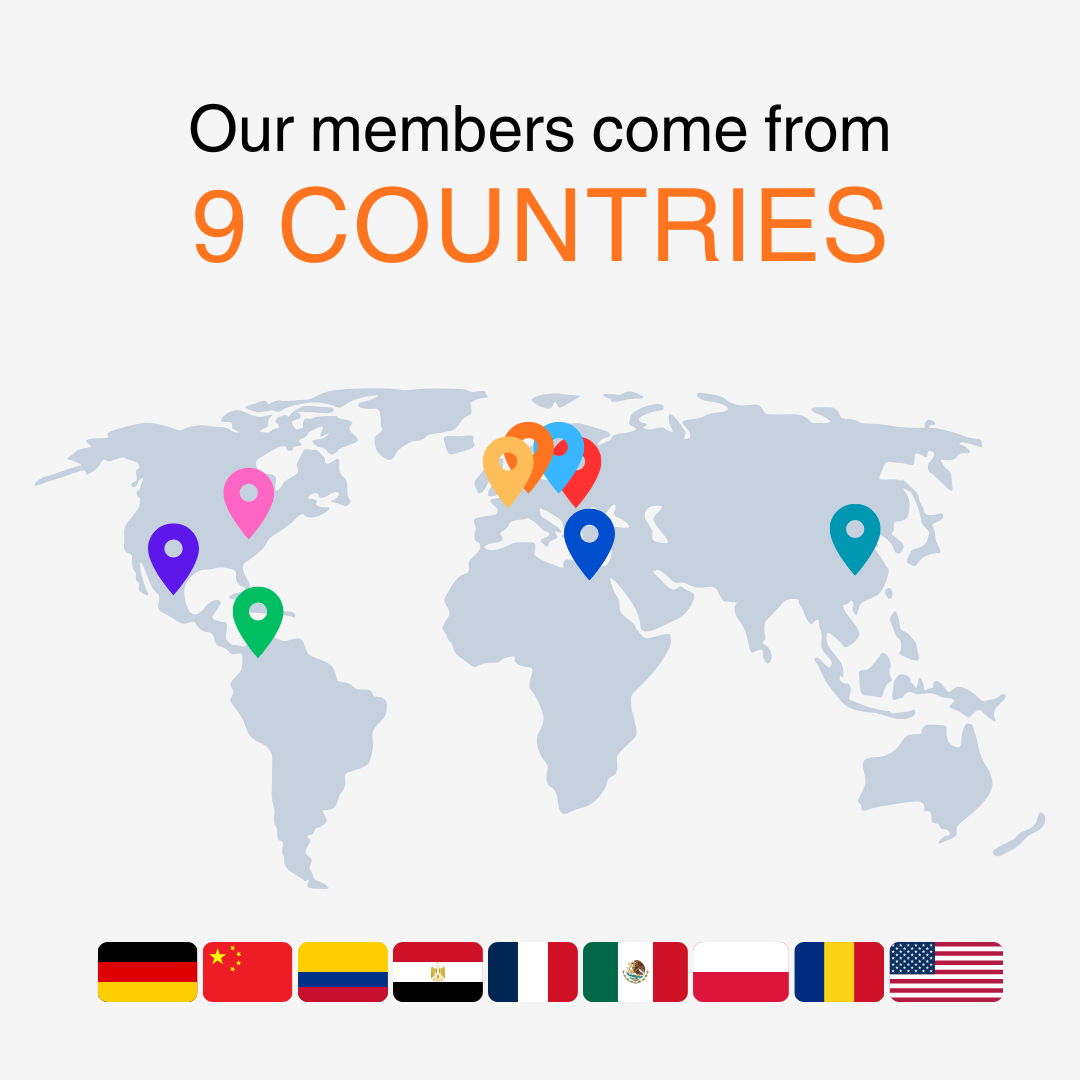
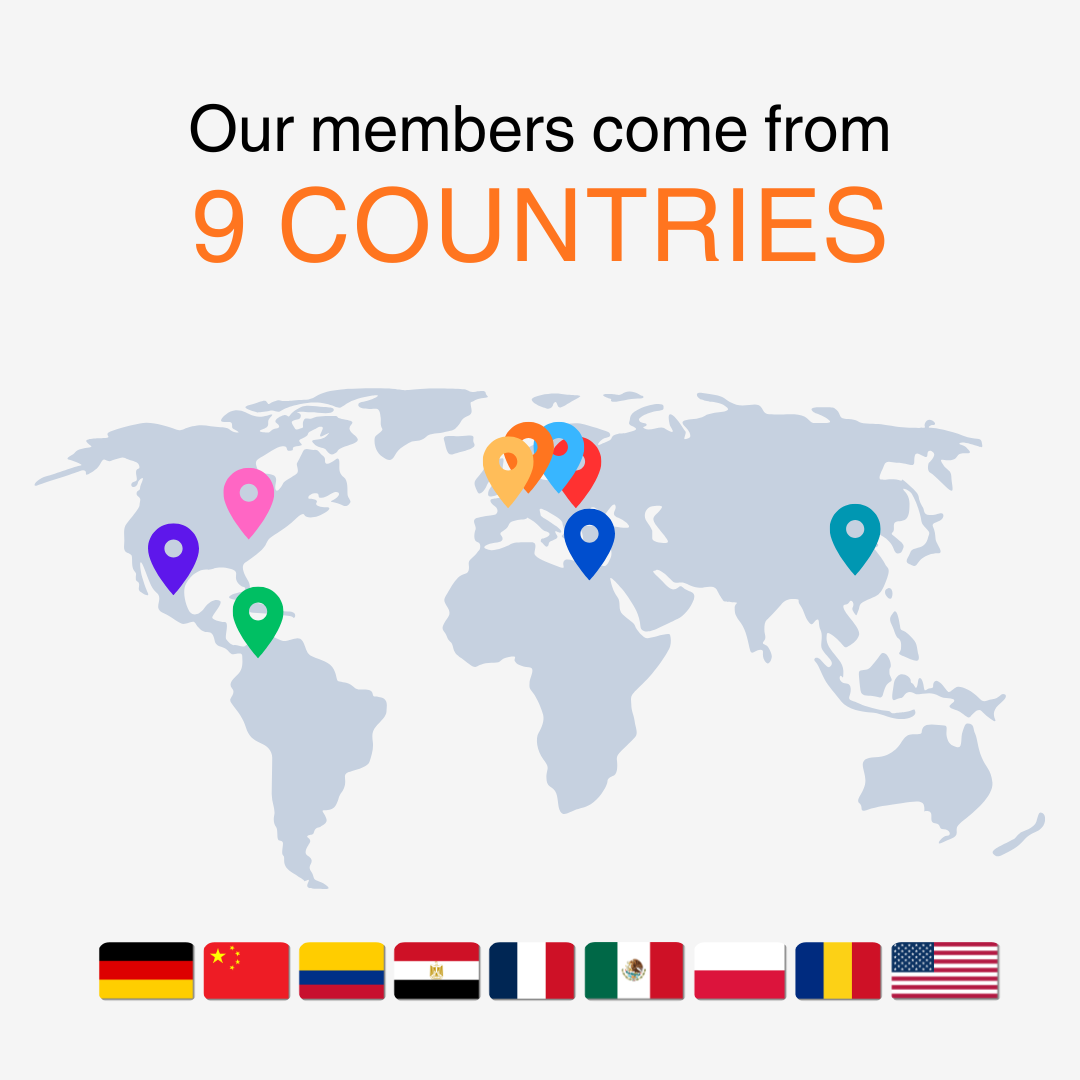
Added missing references and edited files as Lars requested

Changed region(s): [[0.2139, 0.8556, 0.9472, 0.9472], [0.0917, 0.8861, 0.1833, 0.9472]]

diff --git a/_site/research.html b/_site/research.html
@@ -296,7 +296,7 @@ div.csl-indent {
   </li>  
   <li class="nav-item">
     <a class="nav-link" href="./about.html"> 
-<span class="menu-text">About</span></a>
+<span class="menu-text">About us</span></a>
   </li>  
 </ul>
           </div> <!-- /navcollapse -->
@@ -348,15 +348,17 @@ div.csl-indent {
 </section>
 <section id="herpesviral-manipulation-of-the-host-transcriptional-machinery" class="level2">
 <h2 class="anchored" data-anchor-id="herpesviral-manipulation-of-the-host-transcriptional-machinery">Herpesviral manipulation of the host transcriptional machinery</h2>
-<p>Unlike other viruses such as SARS-CoV-2, herpesviruses uniquely exploit the host’s transcriptional machinery to express their large DNA genomes. This process of cellular gene expression is subject to rapid alterations induced by both viral and antiviral mechanisms during lytic infection. Standard approaches that quantify changes in total RNA and protein levels lack the necessary temporal resolution to elucidate the underlying molecular mechanisms. Our lab has pioneered the use of metabolic labelling of newly transcribed RNA using 4-thiouridine (4sU-tagging). This innovative approach allows us to analyze short-term changes in RNA synthesis, processing and decay with superior resolution<span class="citation" data-cites="dolken_high-resolution_2008 friedel_conserved_2009 windhager_ultrashort_2012 rutkowski_widespread_2015"><sup><a href="#ref-dolken_high-resolution_2008" role="doc-biblioref">1</a>–<a href="#ref-rutkowski_widespread_2015" role="doc-biblioref">4</a></sup></span>. We are using this method to study how herpesviruses manipulate the host transcriptional machinery during productive and latent infection. For instance, during lytic HSV-1 infection, we discovered that HSV-1 triggers widespread, host-specific disruption of transcription termination, leading to extensive transcriptional activity for tens of thousands of nucleotides and downstream genes. We have elucidated the underlying molecular mechanism and its functional consequences for productive infection<span class="citation" data-cites="lodha_decoding_2023"><sup><a href="#ref-lodha_decoding_2023" role="doc-biblioref">5</a></sup></span>. We are currently studying additional viral means of manipulating the cellular transcriptional machinery, the underlying molecular mechanisms, and the host defence mechanisms to detect and counteract this.</p>
+<p>Unlike other viruses such as SARS-CoV-2, herpesviruses uniquely exploit the host’s transcriptional machinery to express their large DNA genomes. This process of cellular gene expression is subject to rapid alterations induced by both viral and antiviral mechanisms during lytic infection. Standard approaches that quantify changes in total RNA and protein levels lack the necessary temporal resolution to elucidate the underlying molecular mechanisms. Our lab has pioneered the use of metabolic labelling of newly transcribed RNA using 4-thiouridine (4sU-tagging). This innovative approach allows us to analyze short-term changes in RNA synthesis, processing and decay with superior resolution<span class="citation" data-cites="dolken_high-resolution_2008 friedel_conserved_2009 windhager_ultrashort_2012 rutkowski_widespread_2015"><sup><a href="#ref-dolken_high-resolution_2008" role="doc-biblioref">1</a>–<a href="#ref-rutkowski_widespread_2015" role="doc-biblioref">4</a></sup></span>. Recent improvements involving nucleotide conversion sequencing technologies<span class="citation" data-cites="erhard_time-resolved_2022"><sup><a href="#ref-erhard_time-resolved_2022" role="doc-biblioref">5</a></sup></span> now enable time-resolved transcriptome analysis at single-cell resolution (scSLAM-seq<span class="citation" data-cites="erhard_scslam-seq_2019"><sup><a href="#ref-erhard_scslam-seq_2019" role="doc-biblioref">6</a></sup></span>).</p>
+<p>We are using these approaches to study how herpesviruses manipulate the host transcriptional machinery during productive and latent infection. For instance, during lytic HSV-1 infection, we discovered that HSV-1 triggers widespread, host-specific disruption of transcription termination (DoTT), leading to extensive transcriptional activity for tens of thousands of nucleotides and downstream genes<span class="citation" data-cites="rutkowski_widespread_2015"><sup><a href="#ref-rutkowski_widespread_2015" role="doc-biblioref">4</a></sup></span>. We elucidated the underlying molecular mechanism and its functional consequences for productive infection<span class="citation" data-cites="lodha_decoding_2023"><sup><a href="#ref-lodha_decoding_2023" role="doc-biblioref">7</a></sup></span>. Most recently, we could show within a consortium of international researchers that mammalian cells learned to recognize DoTT induced by HSV-1 and Influenza A virus. Specifically, DoTT results in the nuclear accumulation of long aberrant nuclear RNAs that form left-handed double-stranded RNAs, so called Z-RNAs, when spanning repetitive intergenic regions harboring endogenous retroviral elements. Host-derived Z-RNAs arising during lytic HSV-1 and IAV infection are recognized by Z-Nucleic Acid Binding Protein 1 (ZBP1), triggering cell death. Mammalian cells thus learned to exploit previous viral invasions of their large genomes to detect and efficiently combat new viral invasions<span class="citation" data-cites="yin_host_2025"><sup><a href="#ref-yin_host_2025" role="doc-biblioref">8</a></sup></span>.</p>
+<p>We are currently studying additional viral mechanisms for manipulating the cellular transcriptional machinery, the underlying molecular mechanisms, and the host defense mechanisms that detect and counteract them.</p>
 </section>
 <section id="functional-reannotation-of-herpesvirus-genomes" class="level2">
 <h2 class="anchored" data-anchor-id="functional-reannotation-of-herpesvirus-genomes">Functional reannotation of herpesvirus genomes</h2>
-<p>Applying systems biology methodologies like RNA-seq and ribosome profiling (Ribo-seq) revealed that herpesvirus gene expression is substantially more complex. Within their 165-230kb genomes, they encode hundreds of novel transcripts and open reading frames (ORFs). Based on a broad range of systems biology data, including transcription and translation start site profiling, ribosome profiling and quantitative proteomics, we re-annotate the genomes of HSV-1 (REF) as well as murine and human cytomegalovirus (MCMV/HCMV)<span class="citation" data-cites="erhard_improved_2018 lodha_decoding_2023"><sup><a href="#ref-lodha_decoding_2023" role="doc-biblioref">5</a>,<a href="#ref-erhard_improved_2018" role="doc-biblioref">6</a></sup></span>. We also developed a new nomenclature to incorporate the novel gene products into the existing nomenclature. A particularly interesting finding from ribosome profiling experiments is hundreds of novel small herpesvirus ORFs (sORFs). Most of these are expressed upstream of previously annotated larger ORFs that represent upstream open reading frames (uORFs). Cellular uORFs are prevalent in eukaryotic genomes and constitute an important yet poorly understood regulatory network governing gene expression at the translation level. We hypothesize that viral uORFs allow these viruses to adapt viral gene expression to cell type, stress and inflammation. Moreover, we are interested in the functional role of small viral RNAs during the different phases of the viral life cycle<span class="citation" data-cites="hennig_selective_2022"><sup><a href="#ref-hennig_selective_2022" role="doc-biblioref">7</a></sup></span>.</p>
+<p>Applying systems biology methodologies like RNA-seq and ribosome profiling (Ribo-seq) revealed that herpesvirus gene expression is substantially more complex. Within their 165-230kb genomes, they encode hundreds of novel transcripts and open reading frames (ORFs). Based on a broad range of systems biology data, including transcription and translation start site profiling, ribosome profiling, and quantitative proteomics, we re-annotate the genomes of HSV-1<span class="citation" data-cites="whisnant_integrative_2020"><sup><a href="#ref-whisnant_integrative_2020" role="doc-biblioref">9</a></sup></span> as well as murine and human cytomegalovirus (MCMV/HCMV)<span class="citation" data-cites="erhard_improved_2018 lodha_decoding_2023"><sup><a href="#ref-lodha_decoding_2023" role="doc-biblioref">7</a>,<a href="#ref-erhard_improved_2018" role="doc-biblioref">10</a></sup></span>. We also developed a new nomenclature to incorporate the novel gene products into the existing nomenclature. A particularly interesting finding from ribosome profiling experiments is the identification of hundreds of novel small herpesvirus ORFs (sORFs). Most of these are expressed upstream of previously annotated larger ORFs that represent upstream open reading frames (uORFs). Cellular uORFs are prevalent in eukaryotic genomes and constitute an important yet poorly understood regulatory network governing gene expression at the translation level. We hypothesize that viral uORFs allow these viruses to adapt viral gene expression to cell type, stress, and inflammation. Moreover, we are interested in the functional role of small viral RNAs during the different phases of the viral life cycle<span class="citation" data-cites="hennig_selective_2022"><sup><a href="#ref-hennig_selective_2022" role="doc-biblioref">11</a></sup></span> and their immunological role in virus control and immune evasion.</p>
 </section>
-<section id="transcriptional-regulation-at-single-cell-level" class="level2">
-<h2 class="anchored" data-anchor-id="transcriptional-regulation-at-single-cell-level">Transcriptional regulation at single-cell level</h2>
-<p>Single-cell RNA sequencing (scRNA-seq) has highlighted the important role of intercellular heterogeneity in phenotype variability in health and disease. Gene expression is a stochastic process, with intrinsic and extrinsic noise in transcription and translation contributing to intercellular heterogeneity in mRNA and protein levels. However, this inherent characteristic cannot be resolved using current scRNA-seq approaches. A further key limitation of all existing methods is that the RNA profile of each cell can only be analyzed once. We combined metabolic RNA labelling using 4-thiouridine with chemical nucleoside conversion and scRNA-seq to develop thiol-(SH)-linked nucleotide conversion sequencing (scSLAM-seq)<span class="citation" data-cites="erhard_scslam-seq_2019"><sup><a href="#ref-erhard_scslam-seq_2019" role="doc-biblioref">8</a></sup></span>. Our close collaborator Florian Erhard (<a href="https://erhard-lab.de/">Erhard Lab</a>) developed the computational approach GRAND-SLAM (Global Refined Analysis of Newly transcribed RNA and Decay rates using SLAM-seq) to quantify the new-to-total RNA ratio (NTR) for thousands of genes in tens of thousands of cells. We are now exploiting scSLAM-seq’s super-resolution to decipher virus-host interactions at single-cell level. The long-term goal is to decipher viral and cellular mechanisms with important regulatory roles during latency, reactivation and productive infection and develop novel means of intervention.</p>
+<section id="transcriptional-regulation-at-the-single-cell-level" class="level2">
+<h2 class="anchored" data-anchor-id="transcriptional-regulation-at-the-single-cell-level">Transcriptional regulation at the single-cell level</h2>
+<p>Single-cell RNA sequencing (scRNA-seq) has highlighted the important role of intercellular heterogeneity in phenotype variability in health and disease. Gene expression is a stochastic process, with intrinsic and extrinsic noise in transcription and translation contributing to intercellular heterogeneity in mRNA and protein levels. However, this inherent characteristic cannot be resolved using current scRNA-seq approaches. A further key limitation of all existing methods is that the RNA profile of each cell can only be analyzed once. We combined metabolic RNA labelling using 4-thiouridine with chemical nucleoside conversion and scRNA-seq to develop thiol-(SH)-linked nucleotide conversion sequencing (scSLAM-seq)<span class="citation" data-cites="erhard_scslam-seq_2019"><sup><a href="#ref-erhard_scslam-seq_2019" role="doc-biblioref">6</a></sup></span>. Our close collaborator Florian Erhard (<a href="https://erhard-lab.de/">Erhard Lab</a>) has developed the computational approach GRAND-SLAM (Global Refined Analysis of Newly transcribed RNA and Decay rates using SLAM-seq)<span class="citation" data-cites="jurges_dissecting_2018"><sup><a href="#ref-jurges_dissecting_2018" role="doc-biblioref">12</a></sup></span> and the computational R-suite GRAND-R<span class="citation" data-cites="rummel_grandr_2023"><sup><a href="#ref-rummel_grandr_2023" role="doc-biblioref">13</a></sup></span> to quantify the new-to-total RNA ratio (NTR) for thousands of genes in tens of thousands of cells. We are now exploiting scSLAM-seq’s super resolution to decipher virus-host interactions at the single-cell level. Our goal is to reveal novel viral and cellular mechanisms with important regulatory roles during latency, reactivation, and productive infection and develop novel means of intervention.</p>
 </section>
 </div>
 
@@ -376,17 +378,32 @@ div.csl-indent {
 <div id="ref-rutkowski_widespread_2015" class="csl-entry" role="listitem">
 <div class="csl-left-margin">4. </div><div class="csl-right-inline">Rutkowski, A. J. <em>et al.</em> <a href="https://doi.org/10.1038/ncomms8126">Widespread disruption of host transcription termination in <span>HSV</span>-1 infection</a>. <em>Nature Communications</em> <strong>6</strong>, 7126 (2015).</div>
 </div>
-<div id="ref-lodha_decoding_2023" class="csl-entry" role="listitem">
-<div class="csl-left-margin">5. </div><div class="csl-right-inline">Lodha, M. <em>et al.</em> <a href="https://doi.org/10.1371/journal.ppat.1010992">Decoding murine cytomegalovirus</a>. <em>PLOS Pathogens</em> <strong>19</strong>, e1010992 (2023).</div>
-</div>
-<div id="ref-erhard_improved_2018" class="csl-entry" role="listitem">
-<div class="csl-left-margin">6. </div><div class="csl-right-inline">Erhard, F. <em>et al.</em> <a href="https://doi.org/10.1038/nmeth.4631">Improved <span>Ribo</span>-seq enables identification of cryptic translation events</a>. <em>Nature Methods</em> <strong>15</strong>, 363–366 (2018).</div>
-</div>
-<div id="ref-hennig_selective_2022" class="csl-entry" role="listitem">
-<div class="csl-left-margin">7. </div><div class="csl-right-inline">Hennig, T. <em>et al.</em> <a href="https://doi.org/10.1038/s41586-022-04667-4">Selective inhibition of <span class="nocase">miRNA</span> processing by a herpesvirus-encoded <span class="nocase">miRNA</span></a>. <em>Nature</em> <strong>605</strong>, 539–544 (2022).</div>
+<div id="ref-erhard_time-resolved_2022" class="csl-entry" role="listitem">
+<div class="csl-left-margin">5. </div><div class="csl-right-inline">Erhard, F. <em>et al.</em> <a href="https://doi.org/10.1038/s43586-[phone redacted]-z">Time-resolved single-cell <span>RNA</span>-seq using metabolic <span>RNA</span> labelling</a>. <em>Nature Reviews Methods Primers</em> <strong>2</strong>, 77 (2022).</div>
 </div>
 <div id="ref-erhard_scslam-seq_2019" class="csl-entry" role="listitem">
-<div class="csl-left-margin">8. </div><div class="csl-right-inline">Erhard, F. <em>et al.</em> <a href="https://doi.org/10.1038/s41586-019-1369-y"><span class="nocase">scSLAM</span>-seq reveals core features of transcription dynamics in single cells</a>. <em>Nature</em> <strong>571</strong>, 419–423 (2019).</div>
+<div class="csl-left-margin">6. </div><div class="csl-right-inline">Erhard, F. <em>et al.</em> <a href="https://doi.org/10.1038/s41586-019-1369-y"><span class="nocase">scSLAM</span>-seq reveals core features of transcription dynamics in single cells</a>. <em>Nature</em> <strong>571</strong>, 419–423 (2019).</div>
+</div>
+<div id="ref-lodha_decoding_2023" class="csl-entry" role="listitem">
+<div class="csl-left-margin">7. </div><div class="csl-right-inline">Lodha, M. <em>et al.</em> <a href="https://doi.org/10.1371/journal.ppat.1010992">Decoding murine cytomegalovirus</a>. <em>PLOS Pathogens</em> <strong>19</strong>, e1010992 (2023).</div>
+</div>
+<div id="ref-yin_host_2025" class="csl-entry" role="listitem">
+<div class="csl-left-margin">8. </div><div class="csl-right-inline">Yin, C. <em>et al.</em> <a href="https://doi.org/10.1038/s41586-[phone redacted]">Host cell <span>Z</span>-<span>RNAs</span> activate <span>ZBP1</span> during virus infections</a>. <em>Nature</em> <strong>648</strong>, 707–716 (2025).</div>
+</div>
+<div id="ref-whisnant_integrative_2020" class="csl-entry" role="listitem">
+<div class="csl-left-margin">9. </div><div class="csl-right-inline">Whisnant, A. W. <em>et al.</em> <a href="https://doi.org/10.1038/s41467-020-15992-5">Integrative functional genomics decodes herpes simplex virus 1</a>. <em>Nature Communications</em> <strong>11</strong>, 2038 (2020).</div>
+</div>
+<div id="ref-erhard_improved_2018" class="csl-entry" role="listitem">
+<div class="csl-left-margin">10. </div><div class="csl-right-inline">Erhard, F. <em>et al.</em> <a href="https://doi.org/10.1038/nmeth.4631">Improved <span>Ribo</span>-seq enables identification of cryptic translation events</a>. <em>Nature Methods</em> <strong>15</strong>, 363–366 (2018).</div>
+</div>
+<div id="ref-hennig_selective_2022" class="csl-entry" role="listitem">
+<div class="csl-left-margin">11. </div><div class="csl-right-inline">Hennig, T. <em>et al.</em> <a href="https://doi.org/10.1038/s41586-022-04667-4">Selective inhibition of <span class="nocase">miRNA</span> processing by a herpesvirus-encoded <span class="nocase">miRNA</span></a>. <em>Nature</em> <strong>605</strong>, 539–544 (2022).</div>
+</div>
+<div id="ref-jurges_dissecting_2018" class="csl-entry" role="listitem">
+<div class="csl-left-margin">12. </div><div class="csl-right-inline">Jürges, C., Dölken, L. &amp; Erhard, F. <a href="https://doi.org/10.1093/bioinformatics/bty256">Dissecting newly transcribed and old <span>RNA</span> using <span>GRAND</span>-<span>SLAM</span></a>. <em>Bioinformatics</em> <strong>34</strong>, i218–i226 (2018).</div>
+</div>
+<div id="ref-rummel_grandr_2023" class="csl-entry" role="listitem">
+<div class="csl-left-margin">13. </div><div class="csl-right-inline">Rummel, T., Sakellaridi, L. &amp; Erhard, F. <a href="https://doi.org/10.1038/s41467-023-39163-4"><span class="nocase">grandR</span>: A comprehensive package for nucleotide conversion <span>RNA</span>-seq data analysis</a>. <em>Nature Communications</em> <strong>14</strong>, 3559 (2023).</div>
 </div>
 </div></section></div></main> <!-- /main -->
 <script id="quarto-html-after-body" type="application/javascript">

diff --git a/_site/publications.html b/_site/publications.html
@@ -277,7 +277,7 @@ ul.task-list li input[type="checkbox"] {
   </li>  
   <li class="nav-item">
     <a class="nav-link" href="./about.html"> 
-<span class="menu-text">About</span></a>
+<span class="menu-text">About us</span></a>
   </li>  
 </ul>
           </div> <!-- /navcollapse -->
@@ -1203,6 +1203,17 @@ Emanuel Wyler, Jennifer Menegatti, Vedran Franke, Christine Kocks, Anastasiya Bo
 <span class="pub-venue"><em>Genome Biology</em>. 2017</span>
 </div>
 </div>
+<div class="pub-item">
+<div class="pub-title-row">
+<a class="pub-title" href="https://doi.org/10.1007/978-1-4939-6518-2_10" target="_blank" rel="noopener">High-Resolution Gene Expression Profiling of RNA Synthesis, Processing, and Decay by Metabolic Labeling of Newly Transcribed RNA Using 4-Thiouridine</a>
+</div>
+<div class="pub-authors">
+Andrzej J. Rutkowski, <span class="lab-author">Lars Dölken</span>
+</div>
+<div class="pub-meta">
+<span class="pub-venue"><em>Eukaryotic Transcriptional and Post-Transcriptional Gene Expression Regulation</em>. 2017</span>
+</div>
+</div>
 </div>
 </section>
 <section id="section-9" class="level2">
@@ -1430,6 +1441,17 @@ Jubao Duan, Jianxin Shi, Xijin Ge, <span class="lab-author">Lars Dölken</span>,
 </div>
 <div class="pub-meta">
 <span class="pub-venue"><em>Scientific Reports</em>. 2013</span>
+</div>
+</div>
+<div class="pub-item">
+<div class="pub-title-row">
+<a class="pub-title" href="https://doi.org/10.1007/978-1-62703-601-6_6" target="_blank" rel="noopener">High Resolution Gene Expression Profiling of RNA Synthesis, Processing, and Decay by Metabolic Labeling of Newly Transcribed RNA Using 4-Thiouridine</a>
+</div>
+<div class="pub-authors">
+<span class="lab-author">Lars Dölken</span>
+</div>
+<div class="pub-meta">
+<span class="pub-venue"><em>Virus-Host Interactions: Methods and Protocols</em>. 2013</span>
 </div>
 </div>
 </div>

diff --git a/_site/about.html b/_site/about.html
@@ -7,7 +7,7 @@
 <meta name="viewport" content="width=device-width, initial-scale=1.0, user-scalable=yes">
 
 
-<title>About</title>
+<title>About us</title>
 <style>
 code{white-space: pre-wrap;}
 span.smallcaps{font-variant: small-caps;}
@@ -276,7 +276,7 @@ ul.task-list li input[type="checkbox"] {
   </li>  
   <li class="nav-item">
     <a class="nav-link active" href="./about.html" aria-current="page"> 
-<span class="menu-text">About</span></a>
+<span class="menu-text">About us</span></a>
   </li>  
 </ul>
           </div> <!-- /navcollapse -->
@@ -313,7 +313,7 @@ ul.task-list li input[type="checkbox"] {
 
 <header id="title-block-header" class="quarto-title-block default">
 <div class="quarto-title">
-<h1 class="title">About</h1>
+<h1 class="title">About us</h1>
 </div>
 
 
@@ -330,7 +330,7 @@ ul.task-list li input[type="checkbox"] {
 </header>
 
 
-<p>We are located at the <a href="https://www.mhh.de/en/">Hannover Medical School (MHH)</a> at the <a href="https://www.mhh.de/en/mhh-institutes/virology">Institute of Virology</a>, Dölken Group <a href="https://www.mhh.de/virologie/forschung/doelken-lab">(AG Dölken)</a>.</p>
+<p>We are located in building J6 of <a href="https://www.mhh.de/en/">Hannover Medical School (MHH)</a> at the <a href="https://www.mhh.de/en/mhh-institutes/virology">Institute of Virology</a>, Dölken Group <a href="https://www.mhh.de/virologie/forschung/doelken-lab">(AG Dölken)</a>.</p>
 <section id="join-us" class="level2">
 <h2 class="anchored" data-anchor-id="join-us">Join us</h2>
 <p>If you are interested in joining the group for a Master’s thesis, MD project, PhD position, or postdoctoral research, feel free to get in touch by email. Please include a short description of your background and your research interests.</p>
@@ -356,7 +356,7 @@ ul.task-list li input[type="checkbox"] {
 </div><div class="column" style="width:45%;">
 <section id="director" class="level2">
 <h2 class="anchored" data-anchor-id="director">Director</h2>
-<p>Prof.&nbsp;Dr.&nbsp;med. Lars Dölken <br> Director Institute of Virology <br> <script type="text/javascript">
+<p>Prof.&nbsp;Dr.&nbsp;med. Lars Dölken <br> Director of the Institute of Virology <br> <script type="text/javascript">
 <!--
 h='&#x6d;&#104;&#x2d;&#104;&#x61;&#110;&#110;&#x6f;&#118;&#x65;&#114;&#46;&#100;&#x65;&#x3f;&#x73;&#x75;&#98;&#106;&#x65;&#x63;&#116;&#x3d;&#x43;&#x6f;&#110;&#116;&#x61;&#x63;&#116;&#x25;&#50;&#48;&#102;&#114;&#x6f;&#x6d;&#x25;&#50;&#48;&#68;&#x6f;&#x65;&#108;&#x6b;&#x65;&#110;&#x25;&#50;&#48;&#x47;&#114;&#x6f;&#x75;&#112;&#x25;&#50;&#48;&#x57;&#x65;&#98;&#x73;&#x69;&#116;&#x65;';a='&#64;';n='&#100;&#x6f;&#x65;&#108;&#x6b;&#x65;&#110;&#46;&#108;&#x61;&#114;&#x73;';e=n+a+h;
 document.write('<a h'+'ref'+'="ma'+'ilto'+':'+e+'" clas'+'s="em' + 'ail btn btn-orange btn-sm">'+'&#x45;&#x6d;&#x61;&#x69;&#108;&#32;&#76;&#x61;&#114;&#x73;'+'<\/'+'a'+'>');
@@ -373,11 +373,11 @@ document.write('<a h'+'ref'+'="ma'+'ilto'+':'+e+'" clas'+'s="em' + 'ail btn btn-
 </div>
 <section id="arriving-by-public-transport" class="level3">
 <h3 class="anchored" data-anchor-id="arriving-by-public-transport">Arriving by Public Transport</h3>
-<p>The MHH campus is easily reached via the tram (line 4, direction Roderbruch) from the city centre (Kröpcke) which is a five minute walk from Hannover main station (Hauptbahnhof, Hbf). You can also take the S-Bahn to the “Bahnhof Karl-Wiechert-Allee” station and switch to the U-Bahn line 4 from there. Depending on your location you may also take the Bus (#123, #124, #137). Both “Misburger Straße” and “Medizinische Hochschule” stations are close by (See plan below).</p>
+<p>The MHH campus is easily reached via tram (line 4, direction Roderbruch) from the city centre (Kröpcke), which is a five minute walk from Hannover main station (Hauptbahnhof, Hbf). You can also take the S-Bahn to the “Bahnhof Karl-Wiechert-Allee” station and switch to the U-Bahn line 4 from there. Depending on your location you may also take the Bus (#123, #124, #137). Both “Misburger Straße” and “Medizinische Hochschule” stations are close by (See plan below).</p>
 </section>
 <section id="arriving-by-bike-car" class="level3">
 <h3 class="anchored" data-anchor-id="arriving-by-bike-car">Arriving by Bike &amp; Car</h3>
-<p>Parking for both car and bike is available throughout the campus area.</p>
+<p>Parking for both cars and bikes is available throughout the campus area.</p>
 <div class="quarto-figure quarto-figure-center">
 <figure class="figure">
 <p><img src="img/lageplan_arrows.png" class="img-fluid figure-img"></p>

diff --git a/_site/index.html b/_site/index.html
@@ -7,7 +7,7 @@
 <meta name="viewport" content="width=device-width, initial-scale=1.0, user-scalable=yes">
 
 
-<title>Welcome to the Dölken Lab at the MHH</title>
+<title>Welcome to Dölken Lab at the MHH</title>
 <style>
 code{white-space: pre-wrap;}
 span.smallcaps{font-variant: small-caps;}
@@ -336,7 +336,7 @@ window.Quarto = {
   </li>  
   <li class="nav-item">
     <a class="nav-link" href="./about.html"> 
-<span class="menu-text">About</span></a>
+<span class="menu-text">About us</span></a>
   </li>  
 </ul>
           </div> <!-- /navcollapse -->
@@ -362,7 +362,7 @@ window.Quarto = {
 
 <header id="title-block-header" class="quarto-title-block default">
 <div class="quarto-title">
-<h1 class="title">Welcome to the Dölken Lab at the MHH</h1>
+<h1 class="title">Welcome to Dölken Lab at the MHH</h1>
 </div>
 
 
@@ -386,11 +386,11 @@ window.Quarto = {
 <p>The Dölken Lab at Hannover Medical School (MHH) explores the intricate co-evolution between herpesviruses and their hosts. While these large DNA viruses are significant human pathogens—causing everything from common cold sores to cancer—they also serve as powerful tools for uncovering fundamental principles of cell biology and immunology.</p>
 <section id="beyond-the-tip-of-the-iceberg" class="level3">
 <h3 class="anchored" data-anchor-id="beyond-the-tip-of-the-iceberg">Beyond the Tip of the Iceberg</h3>
-<p>Because herpesviruses interfere with complex cellular signaling networks, we employ a systems-level approach to resolve the full spectrum of viral regulation. Our research moves from single-cell to organismal levels, focusing on three core pillars:</p>
+<p>Because herpesviruses interfere with complex cellular signaling networks, we employ a systems-level approach to resolve the full spectrum and complexity of virus-host interactions. Our research moves from single-cell to organismal levels, focusing on three core pillars:</p>
 <ul>
-<li><p><strong>Manipulating the Host Machinery:</strong> We use innovative 4sU-tagging (metabolic labeling) to capture real-time changes in RNA synthesis and decay. This allows us to study how viruses like HSV-1 disrupt cellular processes, such as transcription termination, to evade host defenses.</p></li>
-<li><p><strong>Functional Genome Re-annotation:</strong> By integrating RNA-seq and ribosome profiling (Ribo-seq), we have discovered that herpesvirus genomes are far more complex than previously thought. We are currently re-annotating these genomes to include hundreds of novel transcripts and small open reading frames (sORFs) that regulate viral adaptation.</p></li>
-<li><p><strong>Single-Cell Dynamics (scSLAM-seq):</strong> To overcome the limitations of standard single-cell sequencing, we pioneered scSLAM-seq. By combining metabolic labeling with chemical conversion, we can differentiate between “new” and “old” RNA within a single cell. This “super-resolution” view allows us to decipher stochastic virus-host interactions during latency, reactivation, and productive infection.</p></li>
+<li><p><strong>Manipulation of the Host Transcriptional Machinery:</strong> We use innovative 4sU-tagging (metabolic labeling) to capture real-time changes in RNA synthesis, processing, and decay at bulk and single-cell level. This allows us to study how viruses like HSV-1 disrupt cellular processes, such as transcription termination, to evade host defenses.</p></li>
+<li><p><strong>Functional Genome Re-annotation:</strong> By integrating RNA-seq and ribosome profiling (Ribo-seq), we discovered that herpesvirus genomes are far more complex than previously thought. We are currently re-annotating these genomes to include hundreds of novel transcripts and small open reading frames (sORFs) that regulate viral adaptation.</p></li>
+<li><p><strong>Single-Cell Dynamics (scSLAM-seq):</strong> To overcome the limitations of standard single-cell sequencing, we pioneered scSLAM-seq. By combining metabolic labeling with chemical conversion, we can differentiate between “new” and “old” RNA within a single cell for thousands of genes in thousands of individual cells. This “super-resolution” view will enable us to decipher stochastic virus-host interactions during latency, reactivation, and productive infection.</p></li>
 </ul>
 </section>
 </section>

diff --git a/_site/people_pages/kasia.html b/_site/people_pages/kasia.html
@@ -275,7 +275,7 @@ ul.task-list li input[type="checkbox"] {
   </li>  
   <li class="nav-item">
     <a class="nav-link" href="../about.html"> 
-<span class="menu-text">About</span></a>
+<span class="menu-text">About us</span></a>
   </li>  
 </ul>
           </div> <!-- /navcollapse -->
@@ -325,7 +325,9 @@ ul.task-list li input[type="checkbox"] {
 </div>
       <div class="about-contents"><main class="content column-page" id="quarto-document-content">
 
-<p>Short description/biography/hobbies of you.</p>
+<p>Professionally, I am a virologist and science enthusiast at heart. I’ve always enjoyed working in the lab; carefully planning experiments, performing them with an exclusive focus, and seeing ideas materialize when analyzing the data, a bit like doing magic, just for real.</p>
+<p>My fascination for the complex world of viruses started in the lab of Prof.&nbsp;Judith White, University of Virginia, where as a Visiting Graduate Student, I investigated fusion of Ebola and Lassa viruses. For my PhD studies, I moved to Hannover, where I joined the group of Prof.&nbsp;Martin Messerle. My research focused on functional importance of M25 proteins in MCMV infection. Currently, my scientific interests lie in utilizing single-cell resolution techniques to define and validate determinants of infection outcome upon HCMV and MCMV infections.</p>
+<p>In personal life, I am a mother of four boys, love traveling, biking, trying new recipes, and solving time-travel or murder mysteries.</p>
 <p><a href="../our_team.html#current-members" class="btn btn-orange btn-sm" role="button">← Back to Team</a></p>
 
 

diff --git a/_site/people_pages/lars.html b/_site/people_pages/lars.html
@@ -275,7 +275,7 @@ ul.task-list li input[type="checkbox"] {
   </li>  
   <li class="nav-item">
     <a class="nav-link" href="../about.html"> 
-<span class="menu-text">About</span></a>
+<span class="menu-text">About us</span></a>
   </li>  
 </ul>
           </div> <!-- /navcollapse -->
@@ -325,7 +325,7 @@ ul.task-list li input[type="checkbox"] {
 </div>
       <div class="about-contents"><main class="content column-page" id="quarto-document-content">
 
-<p>Prof.&nbsp;Dölken studied Medicine at the Ernst-Moritz-Arndt University of Greifswald and the University of Otago, Dunedin, New Zealand. From 2005-2011, he specialized in microbiology, virology and infection epidemiology at the Max-von-Pettenkofer Institute in Munich. During this time, he established a research focus on RNA biology of herpesvirus infection, developing new tools for high-resolution gene expression profiling and studying the functional role of herpesvirus small noncoding RNAs. In 2011, he moved to the University of Cambridge, UK, as an MRC Clinical Scientist Fellow. In 2015, he was appointed chair of virology at the Julius-Maximilians-University of Würzburg. He obtained two consecutive ERC grants (2017: HERPES, 2022: DecipherHSV) to study viral manipulation of the host transcriptional machinery by HSV 1 during lytic infection and latency/reactivation. Since 2018, he has been the speaker of the DFG research unit FOR2830 (Advanced Concepts in the Cellular Immune Control of Cytomegalovirus). In April 2024, he was appointed chair of virology at the Institute of Virology at Hanover Medical School. Moreover, he received a Niedersachsen Professorship from <a href="https://zukunft.niedersachsen.de/drei-professuren-fur-niedersachsen/">zukunft.niedersachsen</a>.</p>
+<p>Prof.&nbsp;Dölken studied Medicine at the Ernst-Moritz-Arndt University of Greifswald in Germany and the University of Otago in Dunedin, New Zealand. From 2005-2011, he specialized in microbiology, virology, and infection epidemiology at the Max-von-Pettenkofer Institute in Munich. During this time, he established his research focus on RNA biology of herpesvirus infection, developing new tools for high-resolution gene expression profiling and studying the functional role of herpesvirus small noncoding RNAs. In 2011, he moved to the University of Cambridge, UK, as an MRC Clinical Scientist Fellow and Honorary Consultant in Transfusion and Transplantation Virology for NHS Blood and Transplant. In 2015, he was appointed Chair of Virology at the Julius-Maximilians-University of Würzburg in Germany. He obtained two consecutive ERC grants (2017: HERPES, 2022: DecipherHSV) to study viral manipulation of the host transcriptional machinery by HSV-1 during lytic infection and latency/reactivation. Since 2018, he has been the speaker of the DFG research unit FOR2830 (Advanced Concepts in the Cellular Immune Control of Cytomegalovirus). In April 2024, he was appointed Chair of Virology at the Institute of Virology at Hanover Medical School. Here, he received a Niedersachsen Professorship from <a href="https://zukunft.niedersachsen.de/drei-professuren-fur-niedersachsen/">zukunft.niedersachsen</a>.</p>
 <p><a href="../our_team.html#current-members" class="btn btn-orange btn-sm" role="button">← Back to Team</a></p>
 
 

diff --git a/_site/news.html b/_site/news.html
@@ -336,7 +336,7 @@ window.Quarto = {
   </li>  
   <li class="nav-item">
     <a class="nav-link" href="./about.html"> 
-<span class="menu-text">About</span></a>
+<span class="menu-text">About us</span></a>
   </li>  
 </ul>
           </div> <!-- /navcollapse -->

diff --git a/_site/our_team.html b/_site/our_team.html
@@ -276,7 +276,7 @@ ul.task-list li input[type="checkbox"] {
   </li>  
   <li class="nav-item">
     <a class="nav-link" href="./about.html"> 
-<span class="menu-text">About</span></a>
+<span class="menu-text">About us</span></a>
   </li>  
 </ul>
           </div> <!-- /navcollapse -->

diff --git a/_site/people_pages/claire.html b/_site/people_pages/claire.html
@@ -275,7 +275,7 @@ ul.task-list li input[type="checkbox"] {
   </li>  
   <li class="nav-item">
     <a class="nav-link" href="../about.html"> 
-<span class="menu-text">About</span></a>
+<span class="menu-text">About us</span></a>
   </li>  
 </ul>
           </div> <!-- /navcollapse -->

diff --git a/_site/people_pages/thomas.html b/_site/people_pages/thomas.html
@@ -275,7 +275,7 @@ ul.task-list li input[type="checkbox"] {
   </li>  
   <li class="nav-item">
     <a class="nav-link" href="../about.html"> 
-<span class="menu-text">About</span></a>
+<span class="menu-text">About us</span></a>
   </li>  
 </ul>
           </div> <!-- /navcollapse -->

diff --git a/_site/secret.html b/_site/secret.html
@@ -276,7 +276,7 @@ ul.task-list li input[type="checkbox"] {
   </li>  
   <li class="nav-item">
     <a class="nav-link" href="./about.html"> 
-<span class="menu-text">About</span></a>
+<span class="menu-text">About us</span></a>
   </li>  
 </ul>
           </div> <!-- /navcollapse -->